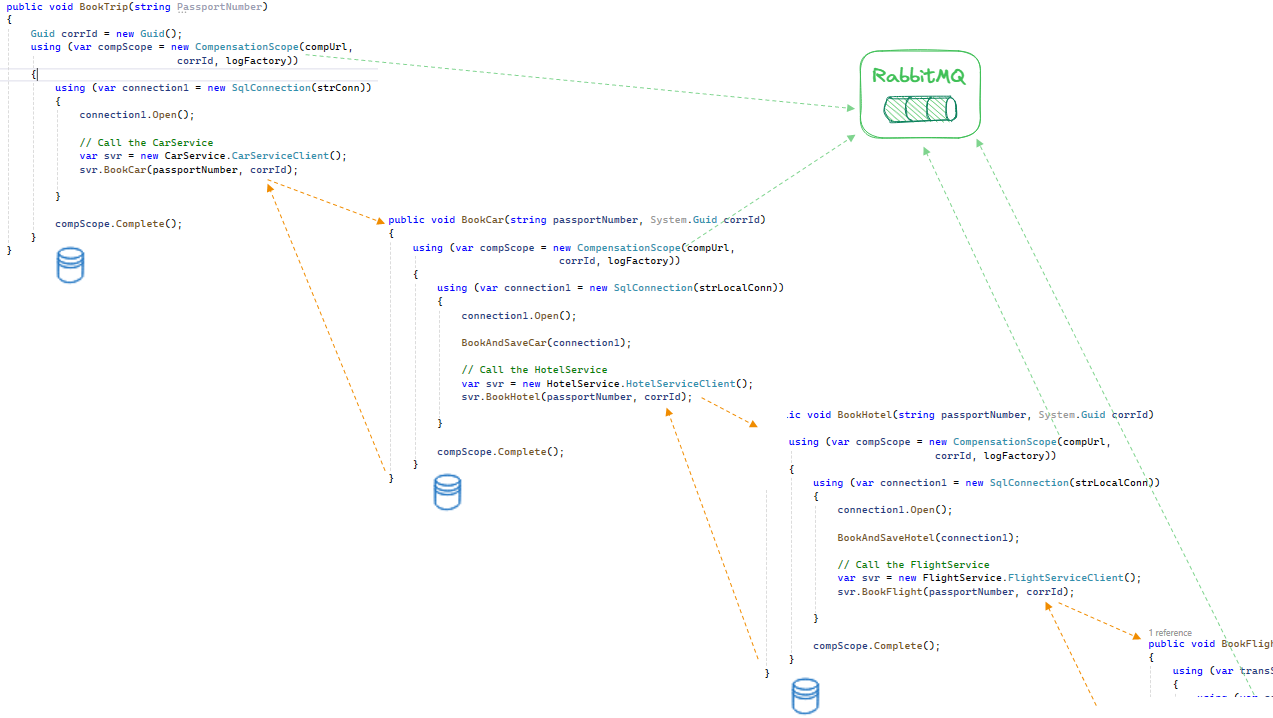
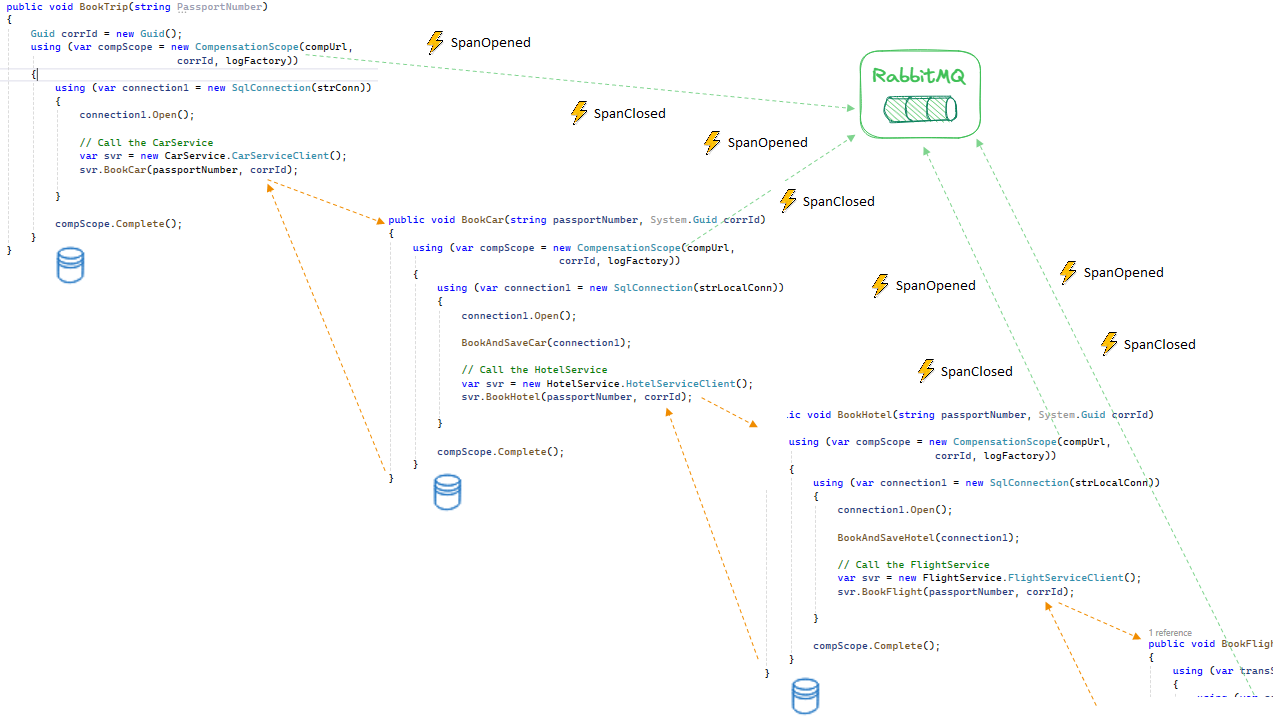
Readme

diff --git a/FlowDance.Tests/CompensationSpanTests.cs b/FlowDance.Tests/CompensationSpanTests.cs
@@ -31,7 +31,7 @@ public class CompensationSpanTests
 
         var storage = new Storage(_factory);
 
-        using (CompensationSpan compSpanRoot = new CompensationSpan("http://localhost/TripBookingService/Compensation", traceId, _factory))
+        using (   CompensationSpan compSpanRoot = new CompensationSpan("http://localhost/TripBookingService/Compensation", traceId, _factory))
         {
             compSpanRoot.Complete();
         }

diff --git a/README.md b/README.md
@@ -1,39 +1,43 @@
 # FlowDance
 FlowDance aims to address several critical aspects in the context of microservices architecture. Let's delve into each of these goals:
 
-**Support Interservice Communication Between Microservices (Database-per-Service Pattern)**:
+**Support Inter-service Communication Between Microservices (Database-per-Service Pattern)**:
     In a microservices architecture, each service often manages its own database. The **Database-per-Service Pattern** encourages this separation.
     By adopting this pattern, services can communicate with each other through well-defined APIs, avoiding direct database access.
     This approach enhances modularity, scalability, and isolation, allowing services to evolve independently.
 
-**Replacing Distributed Transactions Calls Driven by MSDTC with Synchronous RPC-Calls Sharing a Correlation ID/Trace ID**:
+**Replacing Distributed Transactions Calls supported by MSDTC**:
     MSDTC (Microsoft Distributed Transaction Coordinator) is commonly used for distributed transactions across multiple databases.
     However, MSDTC introduces complexity, performance overhead, and potential deadlocks.
     FlowDance proposes a shift towards synchronous RPC (Remote Procedure Call) communication.
-    Services share a **Correlation ID** to track related requests across the system.
+    Services share a **Correlation ID / Trace ID** to track related requests across the system.
     Instead of distributed transactions, services coordinate their actions using synchronous calls, simplifying the architecture.
     While strong consistency is essential in some business cases, FlowDance aims to minimize the need for distributed transactions.
 
 **Moving Away from Strong Consistency to Eventual Consistency Using the Compensating Transaction Pattern**:
     In distributed systems, achieving strong consistency (ACID properties) across all services can be challenging.
     FlowDance embraces **eventual consistency**, where operations may temporarily yield inconsistent results.
+
     The **Compensating Transaction Pattern** comes into play when a step in a process fails.
     If a step cannot be fully rolled back (e.g., due to concurrent changes), compensating transactions undo the effects of previous steps.
     This pattern ensures that the system eventually converges to a consistent state, even after partial failures.
 
 ## Where you might be today?
-The team(s) has been working to split the monolith or at least some steps in that direction. To uphold strong Consistency the microservices use Distributed Transactions Calls Driven by MSDTC.   
+The team(s) has been working to split the monolith or at least some steps in that direction. To uphold strong Consistency the microservices use Distributed Transactions Calls supported by MSDTC.
+Some services has been created using the Database-per-Service Pattern but still there are some realy strong bands between the monolith and separated services due distributed transactions and strong consistency.   
 
 ![Distributed monolith](Docs/distributed-monolith.png)
 
 In the picure below shows how easy a call chain gets created in the system. 
 The user is attempting to book a trip that includes a car rental, hotel reservation, and flight.
 The solution employs a microservices architecture, where each component (car, hotel, and flight) has its own dedicated microservice. These microservices are seamlessly integrated using a Distributed Transaction Coordinator (DTC) session.
+If we would add an one or more services to the call chain the transactions scope would increase even more and introduces more complexity, more performance overhead, and potential deadlocks.  
+So the conclusion is the Distributed Transactions with strong consistency don´t scale that easy and increase the risk of complexity, performance overhead, and potential deadlocks.
 
 ![Synchronous choreography-based call chains](Docs/synchronous-choreography-based-call-chains.png)
 
-So how does FlowDance help us out when we still want to base our solution on synchronous RPC-Calls but leaving MSDTC behind?
-Remember that FlowDance wants to support communication between microservices based on synchronous RPC-calls. Event-driven architecture is out of scoop here.
+So how does FlowDance help us out when we still want to base our solution on synchronous RPC-Calls and some sort of compensating transaction but leaving MSDTC behind?
+Event-driven architecture is out of scoop here for a number of reasons!
 
 In short - by replacing **System.Transactions.TransactionScope** with **FlowDance.Client.CompensationSpan** you leaves the world of strong consistency into eventual consistency.
 
